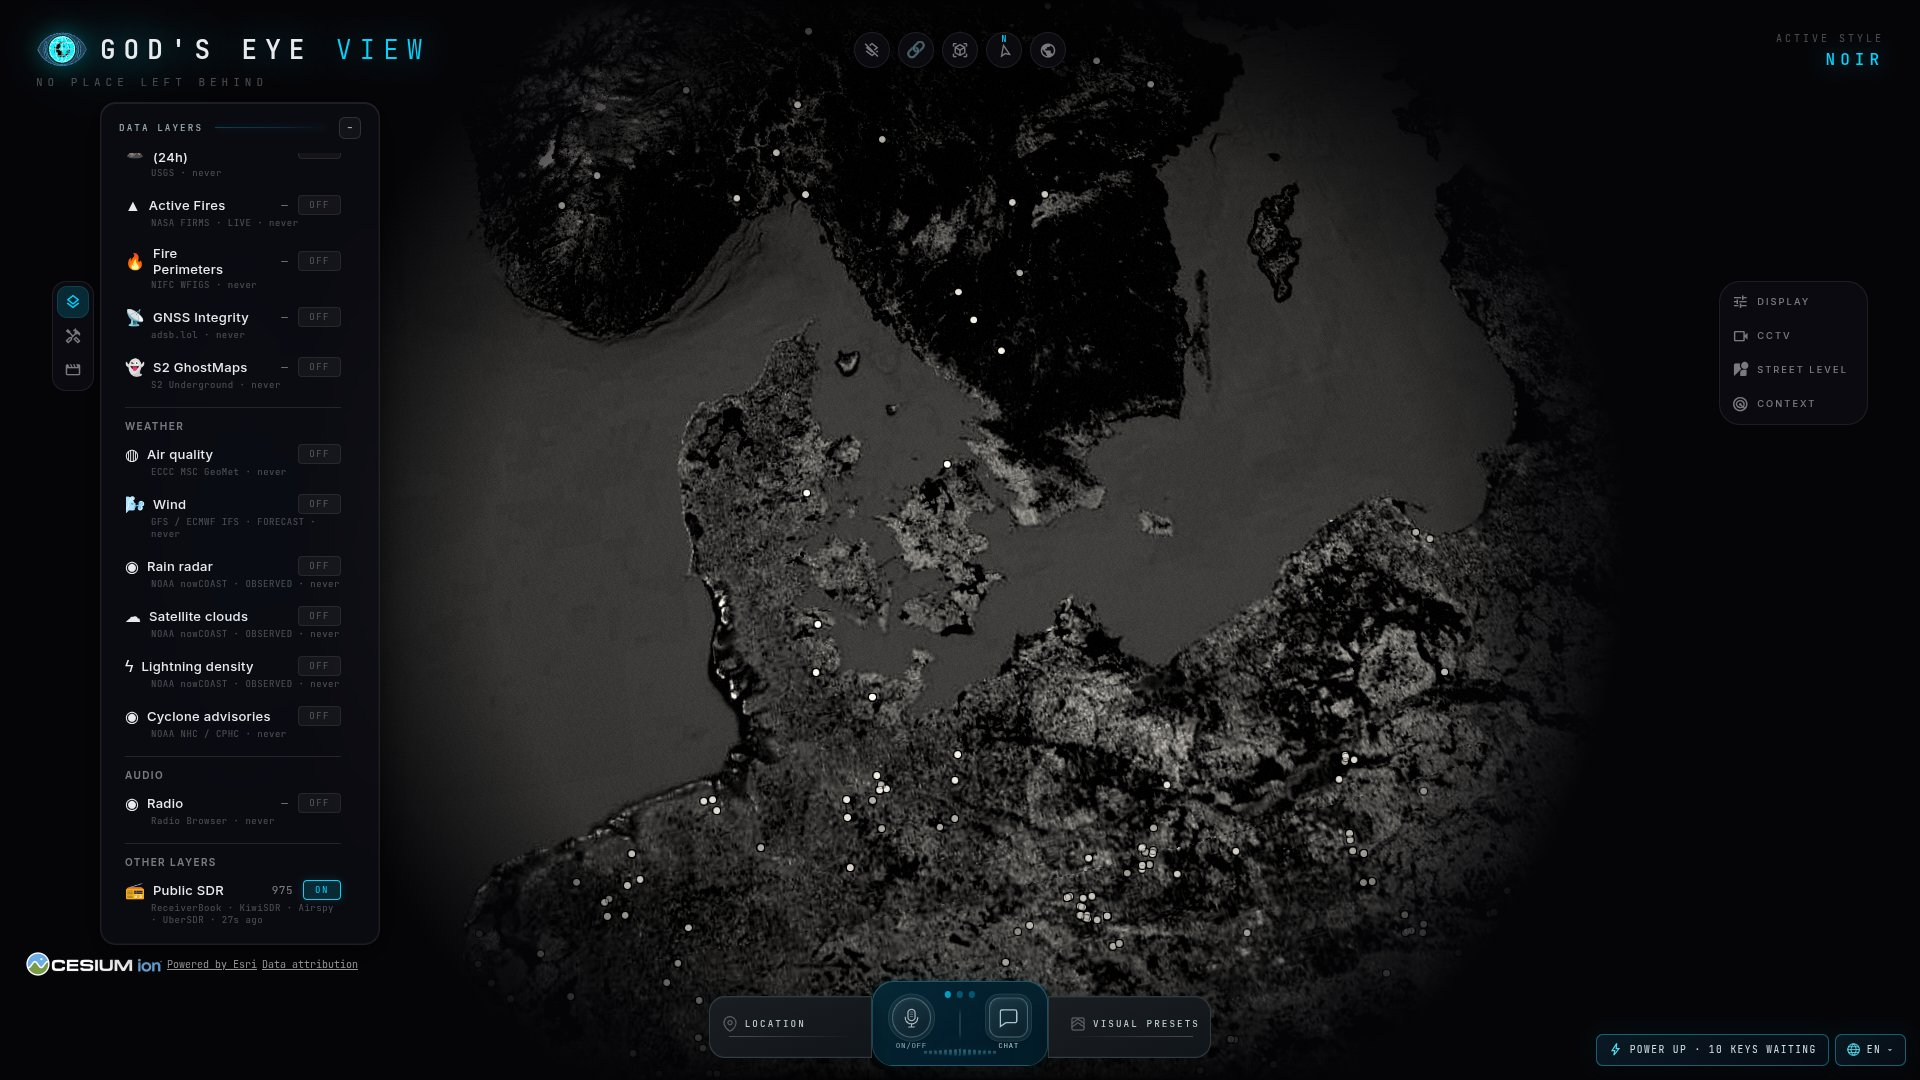
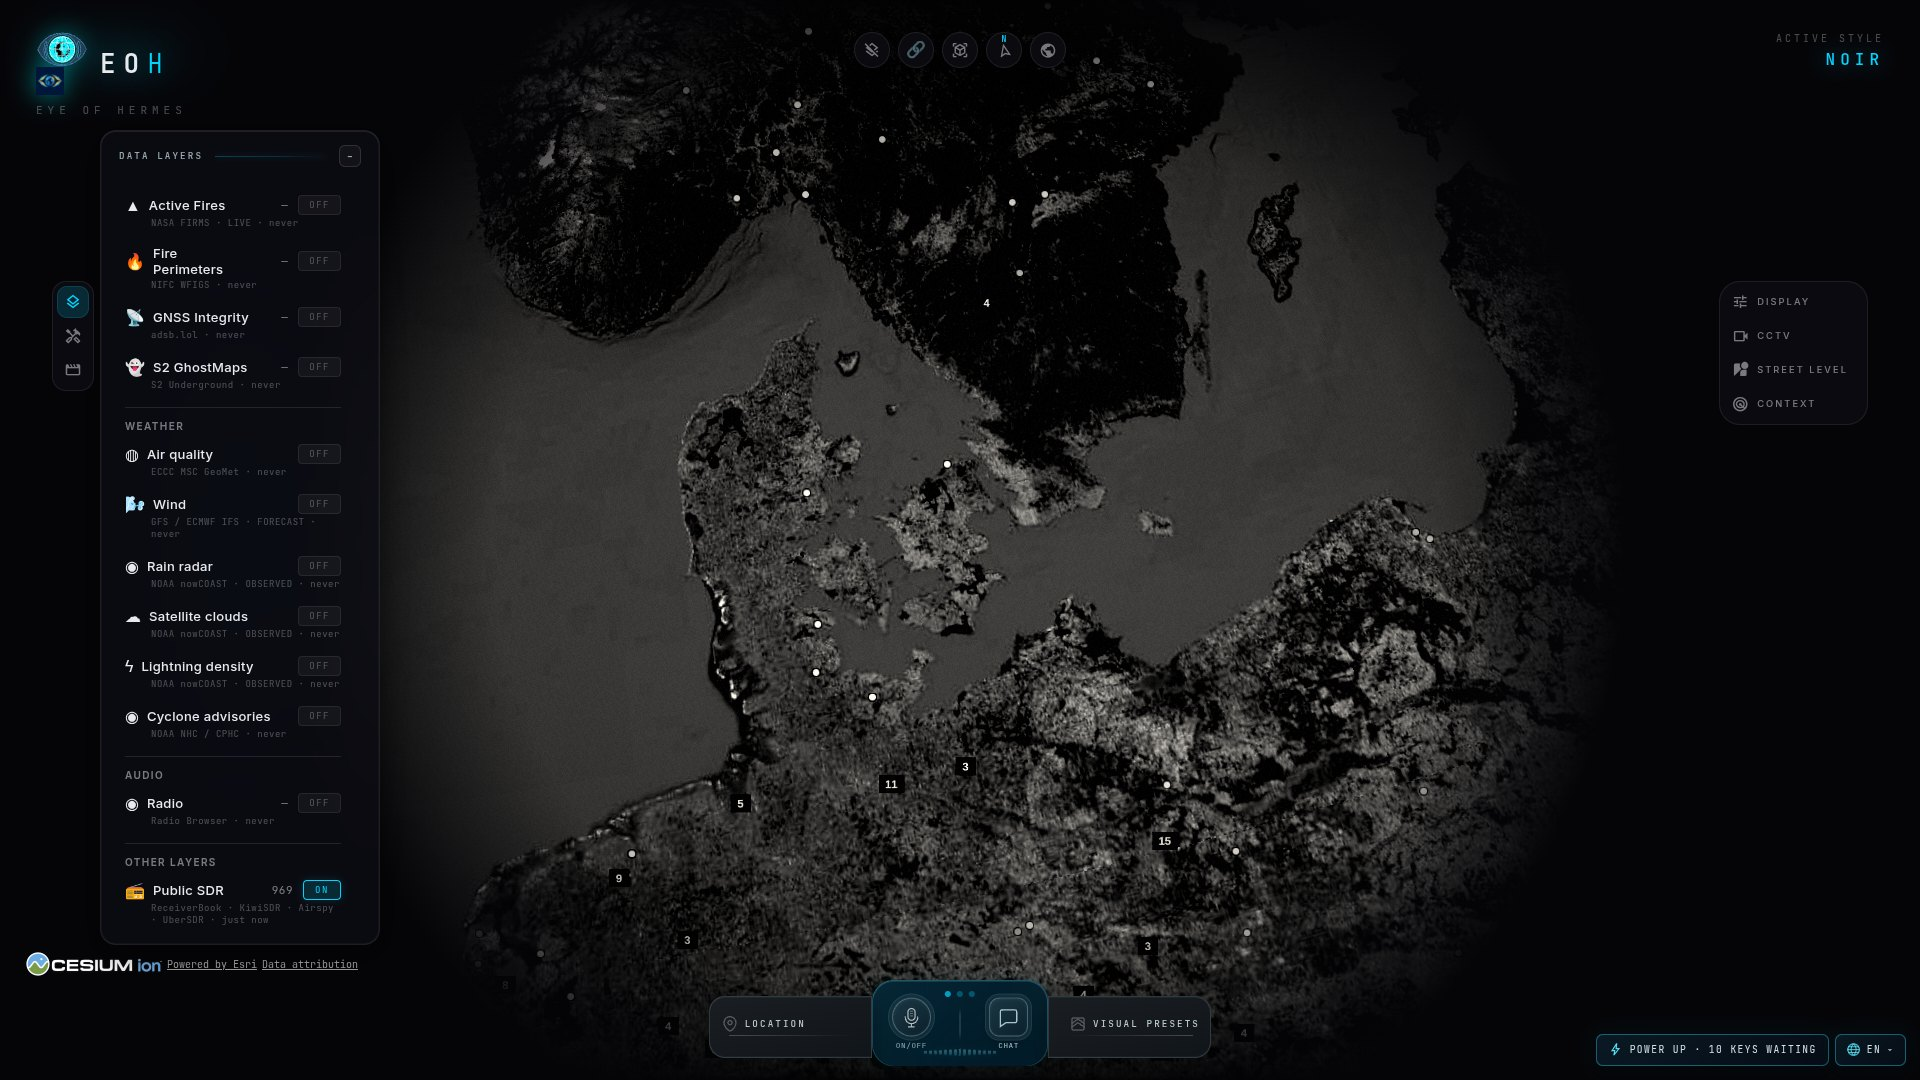
docs: SDR screenshots with Eye Of Hermes pane branding
Reshoot the four Public SDR README images using EOH's real
gev/panel_brand.js inject path (same as the Hermes pane): header EOH,
tagline EYE OF HERMES. Keep live waterfall at 145.500 MHz NBFM and the
Baunatal 14.074 MHz USB radio card framing.

diff --git a/README.md b/README.md
@@ -31,7 +31,7 @@ Person search, face recognition, and tracking an individual are refused in `gev/
 
 ## A tour of the pane
 
-The pictures are the running pane. London, Tokyo, and Sydney are the Hermes Webapp in dark mode, with a narrow chat beside the globe. Measure and compare stay on Montreal. Public SDR shots are Northern Europe / Berlin in God's Eye View **NOIR**. The names and coordinates are public places. Imagery credits in the corner (Cesium ion, Google Maps, Esri) belong to those providers, through God's Eye View.
+The pictures are the running pane. London, Tokyo, and Sydney are the Hermes Webapp in dark mode, with a narrow chat beside the globe. Measure and compare stay on Montreal. Public SDR shots are Northern Europe / Berlin in Eye Of Hermes **NOIR** (EOH pane branding). The names and coordinates are public places. Imagery credits in the corner (Cesium ion, Google Maps, Esri) belong to those providers, through God's Eye View.
 
 ### New in recent builds
 
@@ -53,13 +53,13 @@ Turn on the public radio map and you can listen to live receivers right where th
 
 `godseye_layers` `op=visibility` with `layerId=sdr-receivers` puts the directory on the map. Default pins are the audio+waterfall set. Turn off **MAP: AUDIO + WATERFALL ONLY** in the PUBLIC SDR card to show the full catalog, including HTTPS-only and SpyServer/UberSDR entries that link out instead of playing in-pane.
 
-<img src="docs/images/eoh-sdr-layers-europe.jpg" alt="God's Eye View over Denmark and northern Germany in NOIR style. DATA LAYERS is open with Public SDR on (ReceiverBook · KiwiSDR · Airspy · UberSDR) and receiver pins across the region." width="100%">
+<img src="docs/images/eoh-sdr-layers-europe.jpg" alt="Eye Of Hermes over Denmark and northern Germany in NOIR style. DATA LAYERS is open with Public SDR on (ReceiverBook · KiwiSDR · Airspy · UberSDR) and receiver pins across the region." width="100%">
 
 <sub>Northern Europe, <b>NOIR</b>. <b>Public SDR</b> is on in DATA LAYERS — receiver pins across Denmark and northern Germany. Hermes drives the same layer with <code>godseye_layers</code>.</sub>
 
 A pin click is the listen gesture: it selects the receiver in the Radio panel's PUBLIC SDR card, starts audio when the platform can play natively, and opens the floating spectrum/waterfall while the globe stays usable behind it. One stream at a time. Only <code>http://</code> KiwiSDR and OpenWebRX play inside the pane; other platforms get <b>OPEN ↗</b> to the operator's page (never framed).
 
-<img src="docs/images/eoh-sdr-waterfall-berlin.jpg" alt="Floating SDR waterfall over God's Eye View showing a live OpenWebRX stream from Berlin JO62QJ tuned to 145.500 MHz NBFM, with spectrum, waterfall history, SNR and S-meter." width="100%">
+<img src="docs/images/eoh-sdr-waterfall-berlin.jpg" alt="Floating SDR waterfall in Eye Of Hermes showing a live OpenWebRX stream from Berlin JO62QJ tuned to 145.500 MHz NBFM, with spectrum, waterfall history, SNR and S-meter." width="100%">
 
 <sub>Live floating waterfall: Berlin OpenWebRX (<b>2m/70cm · JO62QJ · DC7JZB</b>) at <b>145.500 MHz NBFM</b> — spectrum + waterfall history in-band, SNR and S-meter, RF right on the globe.</sub>
 
